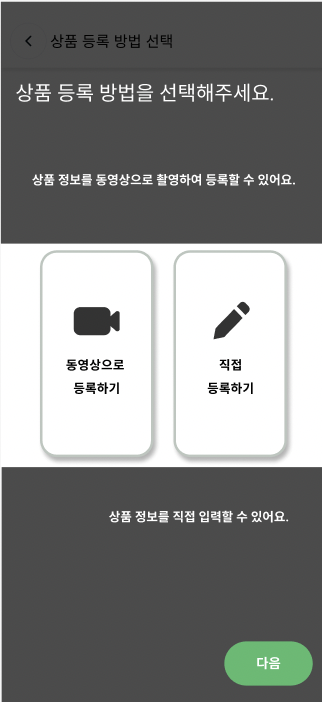
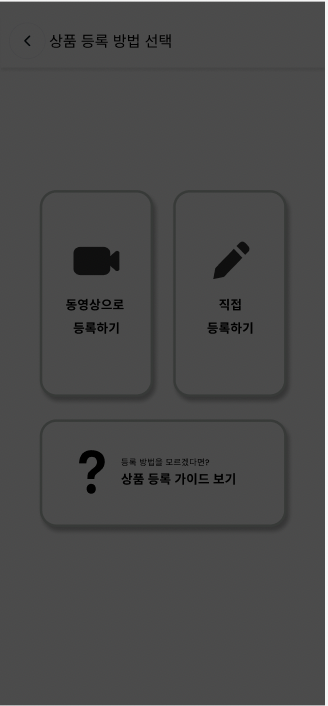
도진 프론트 작업
Guide1,2,3,4,5
상품 등록페이지 작업

diff --git a/frontend/src/Pages/ItemRegister.js b/frontend/src/Pages/ItemRegister.js
@@ -1,16 +1,28 @@
 import React from "react";
 import GlobalStyle from "../GlobalStyle";
+import styled from "styled-components";
 import {
   Container,
   Header,
   HeaderText,
   Input,
   InputTitle,
+  Button,
 } from "../styles/basicStyles";
 import { GoChevronLeft } from "react-icons/go";
 import { Title, Center } from "../styles/basicStyles.js";
 
 export default function ItemRegister() {
+  const Button = styled.button`
+    background-color: white;
+    color: black;
+    border-width: 3px;
+    border-color: #bcc6bf;
+    border-radius: 20px;
+    width: 136px;
+    height: 248px;
+    margin: 10px;
+  `;
   return (
     <>
       <GlobalStyle />
@@ -27,9 +39,11 @@ export default function ItemRegister() {
         <HeaderText>상품 등록 방법 선택</HeaderText>
       </Header>
       <Container>
-        <button>동영상으로 등록하기</button>
-        <button>직접 등록하기</button>
-        <button>상품 등록 가이드 보기</button>
+        <row>
+          <Button onClick={ItemRegister}>동영상으로 등록하기</Button>
+          <Button onClick={ItemRegister}>직접 등록하기</Button>
+        </row>
+        <Button onClick={ItemRegister}>상품 등록 가이드 보기</Button>
       </Container>
     </>
   );

diff --git a/frontend/src/router.js b/frontend/src/router.js
@@ -8,7 +8,11 @@ import ConfirmOrder from "./Pages/ConfirmOrder";
 import ItemRegister from "./Pages/ItemRegister";
 import ItemSelfRegister from "./Pages/ItemSelfRegister";
 import ItemVideoRegister from "./Pages/ItemVideoRegister";
-
+import Guide1 from "./Pages/Guide1";
+import Guide2 from "./Pages/Guide2";
+import Guide3 from "./Pages/Guide3";
+import Guide4 from "./Pages/Guide4";
+import Guide5 from "./Pages/Guide5";
 function Router() {
   return (
     <BrowserRouter>
@@ -22,6 +26,11 @@ function Router() {
         <Route path="/itemregister" element={<ItemRegister />} />
         <Route path="/itemselfregister" element={<ItemSelfRegister />} />
         <Route path="/itemvideoregister" element={<ItemVideoRegister />} />
+        <Route path="/guide1" element={<Guide1 />} />
+        <Route path="/guide2" element={<Guide2 />} />
+        <Route path="/guide3" element={<Guide3 />} />
+        <Route path="/guide4" element={<Guide4 />} />
+        <Route path="/guide5" element={<Guide5 />} />
       </Routes>
     </BrowserRouter>
   );

diff --git a/frontend/src/Pages/Guide5.js b/frontend/src/Pages/Guide5.js
@@ -1,6 +1,6 @@
 import React from "react";
 import { styled } from "styled-components";
-function Guide1() {
+function Guide5() {
   const Btn = styled.button`
     width: 40%;
     height: 48px;
@@ -10,18 +10,18 @@ function Guide1() {
     color: white;
     font-size: 16px;
     position: absolute;
-    bottom: -100px;
+    bottom: -400px;
     left: 30px;
   `;
   return (
     <>
-      <div className="Guide1">
+      <div className="Guide5">
         <Btn onClick={onsubmit} type="submit">
-          다음
+          완료
         </Btn>
-        <img className="Guide1_image" alt="guide1" src="img/guide1.png"></img>
+        <img className="Guide5_image" alt="guide5" src="img/guide5.png"></img>
       </div>
     </>
   );
 }
-export default Guide1;
+export default Guide5;

diff --git a/frontend/src/Pages/Guide2.js b/frontend/src/Pages/Guide2.js
@@ -1,0 +1,27 @@
+import React from "react";
+import { styled } from "styled-components";
+function Guide2() {
+  const Btn = styled.button`
+    width: 40%;
+    height: 48px;
+    border: none;
+    background: #1dab45;
+    border-radius: 8px;
+    color: white;
+    font-size: 16px;
+    position: absolute;
+    bottom: -300px;
+    left: 30px;
+  `;
+  return (
+    <>
+      <div className="Guide2">
+        <Btn onClick={onsubmit} type="submit">
+          다음
+        </Btn>
+        <img className="Guide2_image" alt="guide2" src="img/guide2.png"></img>
+      </div>
+    </>
+  );
+}
+export default Guide2;

diff --git a/frontend/src/Pages/Guide3.js b/frontend/src/Pages/Guide3.js
@@ -1,0 +1,27 @@
+import React from "react";
+import { styled } from "styled-components";
+function Guide3() {
+  const Btn = styled.button`
+    width: 40%;
+    height: 48px;
+    border: none;
+    background: #1dab45;
+    border-radius: 8px;
+    color: white;
+    font-size: 16px;
+    position: absolute;
+    bottom: -300px;
+    left: 30px;
+  `;
+  return (
+    <>
+      <div className="Guide3">
+        <Btn onClick={onsubmit} type="submit">
+          다음
+        </Btn>
+        <img className="Guide3_image" alt="guide3" src="img/guide3.png"></img>
+      </div>
+    </>
+  );
+}
+export default Guide3;

diff --git a/frontend/src/Pages/Guide4.js b/frontend/src/Pages/Guide4.js
@@ -1,0 +1,27 @@
+import React from "react";
+import { styled } from "styled-components";
+function Guide4() {
+  const Btn = styled.button`
+    width: 40%;
+    height: 48px;
+    border: none;
+    background: #1dab45;
+    border-radius: 8px;
+    color: white;
+    font-size: 16px;
+    position: absolute;
+    bottom: -400px;
+    left: 30px;
+  `;
+  return (
+    <>
+      <div className="Guide4">
+        <Btn onClick={onsubmit} type="submit">
+          다음
+        </Btn>
+        <img className="Guide4_image" alt="guide4" src="img/guide4.png"></img>
+      </div>
+    </>
+  );
+}
+export default Guide4;

diff --git a/frontend/src/Pages/ItemSelfRegister.js b/frontend/src/Pages/ItemSelfRegister.js
@@ -183,6 +183,9 @@ function ItemSelfRegister() {
         <HeaderText>상품 직접 등록하기</HeaderText>
       </Header>
       <Container style={{ paddingTop: "0px" }}>
+        <div>
+          <InputTitle htmlFor="image">사진 등록하기</InputTitle>
+        </div>
         <form>
           <InputBox>
             <InputTitle htmlFor="name">상품명</InputTitle>

diff --git a/frontend/src/Pages/ItemVideoRegister.js b/frontend/src/Pages/ItemVideoRegister.js
@@ -1,7 +1,6 @@
 import GlobalStyle from "../GlobalStyle";
 import { Container, Header, HeaderText } from "../styles/basicStyles";
 import { GoChevronLeft } from "react-icons/go";
-import { styled } from "styled-components";
 
 function ItemVideoRegister() {
   return (
